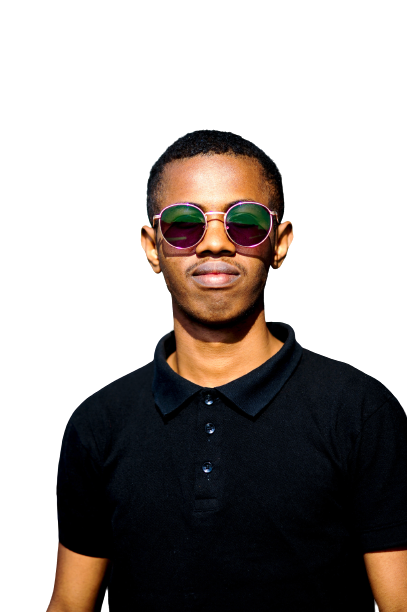
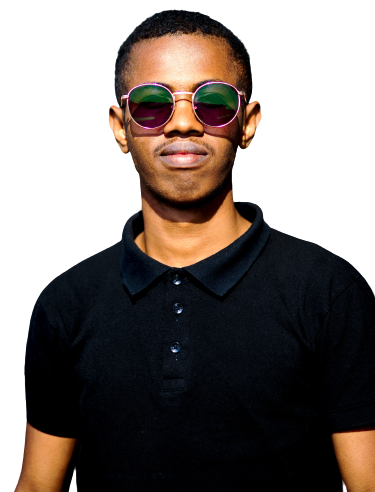
responsive

diff --git a/src/app/app.component.html b/src/app/app.component.html
@@ -17,35 +17,46 @@
             <a class="nav-link px-5 text-light" (click)="activestyles()"  aria-current="" href="#compet">Competence</a>
           </li>
           <li class="nav-item">
-            <a class="nav-link px-5 text-light" (click)="activestyles2()" aria-current="" href="#contact">Projet</a>
+            <a class="nav-link px-5 text-light" (click)="activestyles2()" aria-current="" href="#projet">Projet</a>
           </li>
           
         </ul>
       </div>
     </div>
   </nav>  
-  <div class="row bg mx-5 ms" id="home">
-    <div class="col-2"></div>
-    <div class="col mt-5">
-      <br> <br> <br> <br> <br>   
-         <h1 class="text-light">RASOLONIRINA <br> MAMI ERNEST</h1> 
-         <h3 class="text-secondary"> GRAPHIC DESIGNER </h3>
-         <br>
-         <h4 class="text-info "> 
-         
-            Je suis un graphiste et videaste à le recherche d'un emploi de graphisme ou videaste.
-            j'ai de l'experience d'un an en vidéaste  et graphisme comme freelance 
-         </h4>
+  <div class="row bg my-5 text-center" id="home">
+    <div class="col-lg-6 ">
+      <img src="../assets/mami.png" class="img-fluid w-50"  style="width: 20%;" alt="">
+     </div>
+     
+    <div class="col my-3" >
+      <div class="row">
+        <div class="col">
+          <h1 class="text-light " >RASOLONIRINA <br> MAMI ERNEST</h1> 
+          <h3 class="text-secondary"> GRAPHIC DESIGNER & VIDEASTE </h3>
+          <br>
+          <h4 class="text-info "> 
+          
+             Je suis un graphiste et videaste à le recherche d'un emploi de graphisme ou videaste.
+             j'ai de l'experience d'un an en vidéaste  et graphisme comme freelance 
+          </h4>
+        </div>
+        <div class="row">
+           <div class="col">
+            <app-contacts id="contact"></app-contacts>
+          </div>
+        </div>
+       
+      </div>
+       
     </div>
-    <div class="col-1"></div>
-   <div class="col">
-    <img src="../assets/mami.png" class="img-fluid w-75 md "  style="width: 20%;" alt="">
-   </div>
-   
+    
+    
    
  </div> 
- <app-contacts id="contact" [ngClass]="{'con':isactive2}"></app-contacts> <br> <br> <br> <br>
- <app-competence id="compet" [ngClass]="{'com':isactive}"></app-competence>
+   
+ <app-competence id="compet" [ngClass]="{'com':isactive}"></app-competence> <br> <br> <br>
+ <app-projet id="projet" [ngClass]="{'pro':isactive2}"></app-projet>
  
 </body>
 </html>

diff --git a/src/app/contacts/contacts.component.html b/src/app/contacts/contacts.component.html
@@ -1,40 +1,26 @@
-.<div class="container">
-    <div class="row " >
-        <div class="col text-light">
-            Lot III E 75 Mahamsina sud Antanarivo 101
+.<div class="container-fluid  text-center" id="con">
+    <div class="row"id=defile >
+        <div class="col-md-6 text-start">
+            <span class="text-light"> Lot III E 75 Mahamsina sud Antanarivo 101</span>
         </div>
-        <div class="col">
-            <div class="row">
-                <div class="col">
-                    <img src="../../assets/fb.png" class="w-25" alt="" srcset=""> 
-                </div>
-                <div class="col text-light"> <h6> Rasolonirina Mami Ernest</h6></div>
-            </div>
-        </div>
-        <div class="col"> 
-            <div class="row">
-                <div class="col">
-                   <img src="../../assets/tel.png" class="w-25" alt="" srcset=""> 
-                   
-                </div>
-                 <div class="col text-light"> <h6> 0328770909 </h6> </div>
-              </div>
-        </div>
-        <div class="col">
+       
+           
+         <div class=" col-md-6 text-start  ">
+                    <img src="../../assets/fb.png"  alt="" srcset="">  <span class="text-light"> Rasolonirina Mami Ernest</span>
+         </div>
             
+    
             
-               
-               <div class="row">
-                <div class="col">
-                    <img src="../../assets/gmail.png" class="w-25" alt="" srcset=""> 
+        <div class=" col-md-6 text-start ">
+                   <img src="../../assets/tel.png"  alt="" srcset=""> <span class="text-light"> 0328770909 </span>
                    
-                </div>
-                <div class="col text-light">
-                    <h6> mamiersnet95@gmail.com </h6>
-                </div>
-               </div>
-               
         </div>
+    
+        <div class="col-md-6 text-start">
+                    <img src="../../assets/gmail.png"   alt="" srcset=""> <span class="text-light"> mamiersnet95@gmail.com </span>
+                   
+        </div>
+            
     </div>
    
 </div>

diff --git a/src/app/projet/projet.component.spec.ts b/src/app/projet/projet.component.spec.ts
@@ -1,0 +1,21 @@
+import { ComponentFixture, TestBed } from '@angular/core/testing';
+
+import { ProjetComponent } from './projet.component';
+
+describe('ProjetComponent', () => {
+  let component: ProjetComponent;
+  let fixture: ComponentFixture<ProjetComponent>;
+
+  beforeEach(() => {
+    TestBed.configureTestingModule({
+      declarations: [ProjetComponent]
+    });
+    fixture = TestBed.createComponent(ProjetComponent);
+    component = fixture.componentInstance;
+    fixture.detectChanges();
+  });
+
+  it('should create', () => {
+    expect(component).toBeTruthy();
+  });
+});

diff --git a/src/app/contacts/contacts.component.css b/src/app/contacts/contacts.component.css
@@ -1,16 +1,28 @@
 .container{
-    overflow: hidden;
+    position: fixed;
 }
-.row{
-    
-    display: flex;
-  animation: scrollLeft 30s linear infinite;
+h6{
+  font-size: 14px;
+  display: block;
+  
 }
-@keyframes scrollLeft {
-    0% {
-      transform: translateX(100%);
-    }
-    100% {
-      transform: translateX(-100%);
-    }
+img{
+  width: 20px;
+}
+
+@media screen and (max-width:1286px){
+  h6{
+    font-size: 10px;
   }
+}
+@media screen and (max-width:917px){
+  h6{
+    font-size: 10px;
+  }
+  img{
+    width: 15px;
+  }
+ 
+  
+}
+

diff --git a/src/app/app.module.ts b/src/app/app.module.ts
@@ -4,12 +4,14 @@ import { BrowserModule } from '@angular/platform-browser';
 import { AppComponent } from './app.component';
 import { CompetenceComponent } from './competence/competence.component';
 import { ContactsComponent } from './contacts/contacts.component';
+import { ProjetComponent } from './projet/projet.component';
 
 @NgModule({
   declarations: [
     AppComponent,
     CompetenceComponent,
-    ContactsComponent
+    ContactsComponent,
+    ProjetComponent
   ],
   imports: [
     BrowserModule

diff --git a/src/app/projet/projet.component.html b/src/app/projet/projet.component.html
@@ -1,0 +1,18 @@
+<div class="text-light mx-5" id="competence">
+    <div class="row">
+        <div class="col">
+            <h3 > Projet</h3>
+        </div>
+    </div>
+    <br> <br>
+    <div class="row">
+        <div class="col-lg-6">
+            <img src="../../assets/Pologo JPG.jpg" class="w-25"  srcset="">
+        </div>
+        
+    </div>
+ </div>
+ <br>
+ <br>
+
+

diff --git a/src/app/projet/projet.component.ts b/src/app/projet/projet.component.ts
@@ -1,0 +1,10 @@
+import { Component } from '@angular/core';
+
+@Component({
+  selector: 'app-projet',
+  templateUrl: './projet.component.html',
+  styleUrls: ['./projet.component.css']
+})
+export class ProjetComponent {
+
+}

diff --git a/src/app/competence/competence.component.html b/src/app/competence/competence.component.html
@@ -1,7 +1,7 @@
 <div class="text-light mx-5" id="competence">
     <div class="row">
         <div class="col">
-            <h3> Competence</h3>
+            <h3 > Competence</h3>
         </div>
     </div>
     <br> <br>

diff --git a/src/app/app.component.css b/src/app/app.component.css
@@ -1,7 +1,7 @@
 .com {
     animation: translationdroite 3s;
   }
-.con{
+.pro{
     animation: translationdroite 3s;
 }
 #contact{
@@ -19,5 +19,5 @@
           opacity: 100%;
       }
   }
-  
+
   
